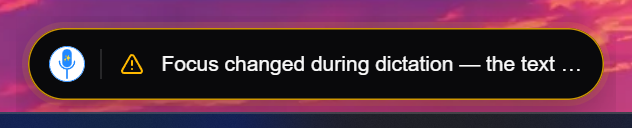
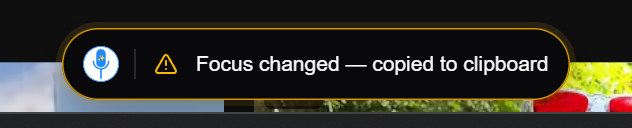
Shorten the focus-lost pill label; audit label widths
The focus-lost pill now says "Focus changed — copied to clipboard"
(new dictationIndicatorFocusLost key, en-US and ar-SA); the
notification keeps the full liveDictationFocusLost sentence.

Width audit: every fixed label in lib/indicator-content.ts was
measured in the pill webview in both locales, with its badge, hint,
elapsed and glyph, against the pill's 384 px inner maximum. Widest
rows: "Dictation hotkeys could not be registered" at 358 px and
"Listening · release to finish · EN · 0:07 · glyph" at 342 px. Nothing
truncates, so no other string changed. Screenshot 14 re-captured.

diff --git a/desktop/src/providers/hotkey.tsx b/desktop/src/providers/hotkey.tsx
@@ -510,8 +510,9 @@ export function HotkeyProvider({ children }: { children: ReactNode }) {
 				}
 				if (focusLost) {
 					// Amber warning, not a green "Copied": the text went somewhere
-					// other than where the user was typing (plan §4).
-					finishIndicator('error', { message: m.liveDictationFocusLost(), severity: 'warning' })
+					// other than where the user was typing (plan §4). Short label
+					// for the pill; the notification above keeps the full sentence.
+					finishIndicator('error', { message: m.dictationIndicatorFocusLost(), severity: 'warning' })
 				} else {
 					finishIndicator('completed', { output: effectiveOutput, words })
 				}
